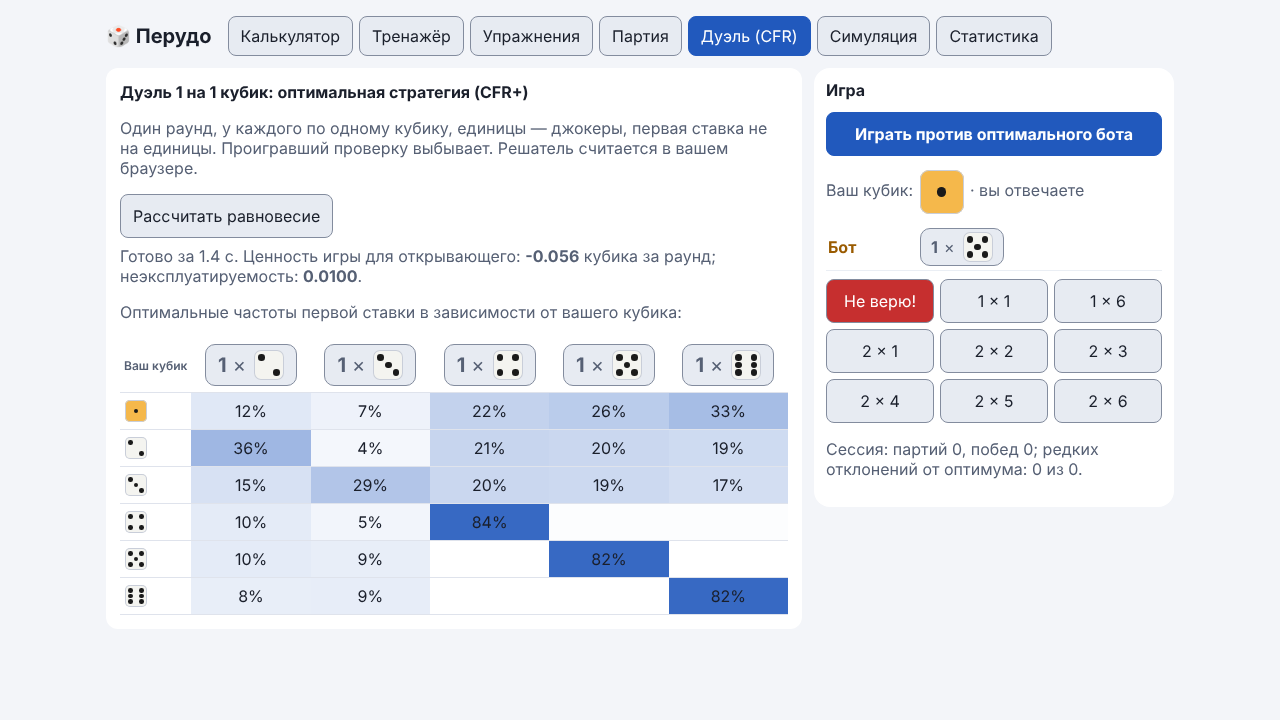
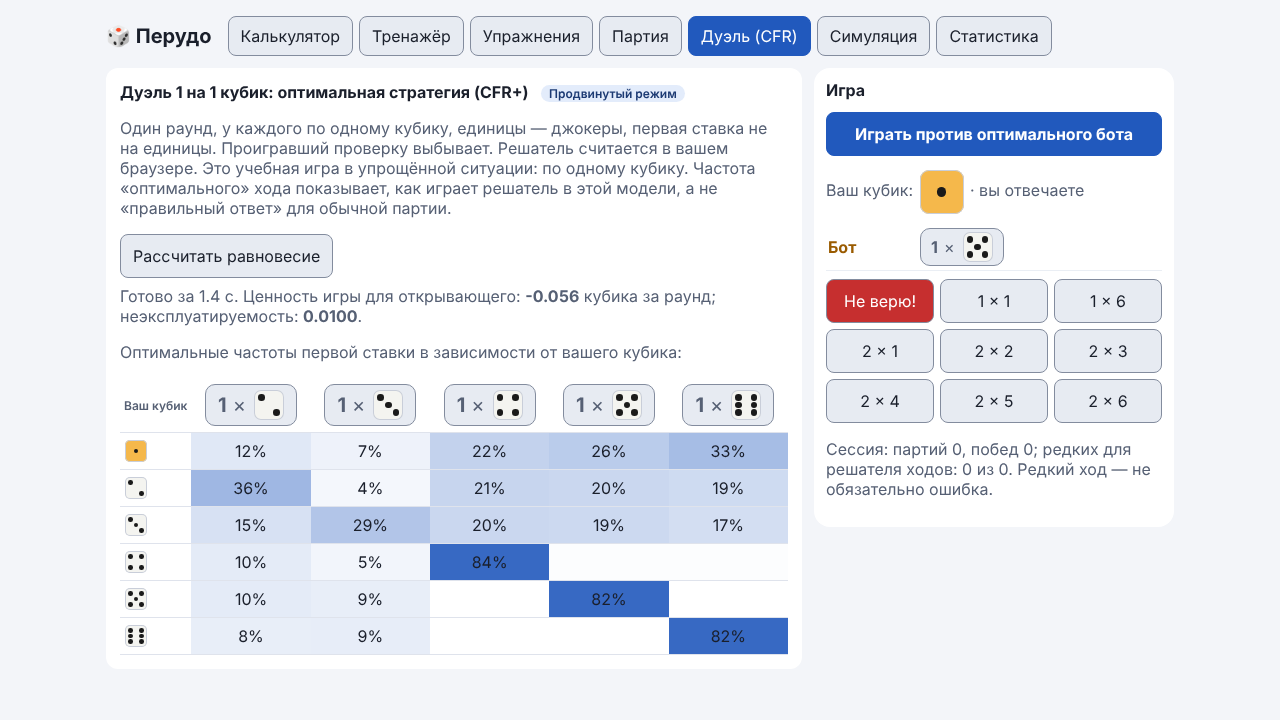
W1-08: тексты Дуэли и Симуляции — метка «Продвинутый режим», условия сравнения с калькулятором, мягче про редкие ходы

diff --git a/docs/guide/duel-sim.html b/docs/guide/duel-sim.html
@@ -23,11 +23,12 @@
     <p class="lead">Два раздела для тех, кому хочется глубже: игра один на один против «почти идеального» бота и проверка формул на практике.</p>
 
     <h2>Дуэль (CFR)</h2>
+    <p><strong>Продвинутый режим.</strong> Это учебная игра в упрощённой ситуации: по одному кубику. Частота «оптимального» хода показывает, как играет решатель в этой модели, а не «правильный ответ» для обычной партии. Новичку лучше начать с <a href="calculator.html">Калькулятора</a> и <a href="drill.html">Разбора</a>.</p>
     <p>Один раунд один на один: у каждого по одному кубику, единицы — джокеры, первая ставка не на единицы, проигравший проверку выбывает. Против вас играет бот, стратегию которого рассчитал алгоритм <strong>CFR+</strong> (минимизация сожаления) прямо в вашем браузере.</p>
     <ul>
       <li><strong>«Рассчитать равновесие»</strong> — посчитать стратегию и посмотреть, с какой частотой бот открывает торги разными ставками при каждом своём кубике.</li>
       <li><strong>«Играть против оптимального бота»</strong> — сыграть раунд: вы выбираете ставку или «Не верю!». Если стратегия ещё не посчитана, расчёт запустится сам.</li>
-      <li>Под полем игры видны счёт «партий / побед» за сессию и число ваших редких отклонений от оптимальной стратегии.</li>
+      <li>Под полем игры видны счёт «партий / побед» за сессию и число ваших ходов, которые решатель выбирает редко. Редкий ход — не обязательно ошибка: решатель просто почти никогда так не играет.</li>
     </ul>
     <figure>
       <img src="../img/duel-desktop.png" alt="Дуэль на компьютере: таблица частот первой ставки и панель игры справа" loading="lazy">
@@ -41,7 +42,7 @@
 
     <h2>Симуляция</h2>
     <p>Проверка формул на практике. Задайте число кубиков (по умолчанию 15), количество бросков (100 000) и джокеры, нажмите <strong>«Запустить Монте-Карло»</strong>. Компьютер бросает кубики много раз и показывает, как часто ставка оказывается верной, когда рук никто не видит.</p>
-    <p>Результат должен совпадать со столбцом «Формула», то есть с цифрами <a href="calculator.html">Калькулятора</a>. Это способ убедиться, что приложению можно доверять.</p>
+    <p>Результат должен совпадать со столбцом «Формула», то есть с цифрами <a href="calculator.html">Калькулятора</a>, но только при тех же условиях: Симуляция бросает все кубики вслепую, без известной вам руки, поэтому с калькулятором она совпадает при том же числе кубиков, тех же джокерах и без учёта вашей руки. Это способ убедиться, что приложению можно доверять.</p>
     <figure>
       <img src="../img/sim-desktop.png" alt="Симуляция на компьютере: результаты бросков рядом со столбцом «Формула»" loading="lazy">
       <figcaption>Кнопка запуска всегда под рукой: на широком экране справа, на телефоне внизу.</figcaption>

diff --git a/tests/mode_notes.test.js b/tests/mode_notes.test.js
@@ -1,0 +1,40 @@
+import { describe, it } from 'node:test';
+import assert from 'node:assert/strict';
+import { readFileSync } from 'node:fs';
+import { DUEL_BADGE, DUEL_NOTE, SIM_NOTE, deviationLabel, duelSessionText } from '../src/mode_notes.js';
+
+const root = new URL('../', import.meta.url);
+const read = (p) => readFileSync(new URL(p, root), 'utf8');
+const text = (html) => html.replace(/<[^>]+>/g, ' ').replace(/\s+/g, ' ');
+const BANNED = /обманщик|врёт|блефует|ошибк[аи] игрока/i;
+
+describe('тексты Дуэли и Симуляции', () => {
+  it('метка «Продвинутый режим» и оговорка есть в index.html', () => {
+    const html = text(read('index.html'));
+    assert.ok(html.includes(DUEL_BADGE));
+    assert.ok(html.includes(DUEL_NOTE));
+    assert.ok(html.includes(SIM_NOTE));
+  });
+  it('SIM_NOTE называет условия сравнения с калькулятором', () => {
+    assert.match(SIM_NOTE, /без известной вам руки/);
+    assert.match(SIM_NOTE, /только при тех же условиях/);
+    assert.match(SIM_NOTE, /джокеры/);
+  });
+  it('редкий ход не называется ошибкой', () => {
+    assert.equal(deviationLabel(0.01), 'редкий для решателя ход');
+    assert.equal(deviationLabel(0.5), 'в рамках');
+    const s = duelSessionText({ games: 2, wins: 1, dev: 3, moves: 7 });
+    assert.match(s, /редких для решателя ходов: 3 из 7/);
+    assert.match(s, /не обязательно ошибка/);
+    assert.doesNotMatch(s, /отклонени/);
+  });
+  it('руководство повторяет оговорки и не использует «отклонения»', () => {
+    const g = text(read('docs/guide/duel-sim.html'));
+    assert.ok(g.includes(DUEL_BADGE));
+    assert.ok(g.includes('без известной вам руки'));
+    assert.doesNotMatch(g, /редких отклонений/);
+  });
+  it('нет запрещённых слов', () => {
+    for (const t of [DUEL_NOTE, SIM_NOTE, DUEL_BADGE]) assert.doesNotMatch(t, BANNED);
+  });
+});

diff --git a/index.html b/index.html
@@ -680,8 +680,9 @@
         <div class="learn-main">
           <div class="card">
             <b>Дуэль 1 на 1 кубик: оптимальная стратегия (CFR+)</b>
+            <span class="badge">Продвинутый режим</span>
             <p class="muted">Один раунд, у каждого по одному кубику, единицы — джокеры, первая ставка не на единицы.
-              Проигравший проверку выбывает. Решатель считается в вашем браузере.</p>
+              Проигравший проверку выбывает. Решатель считается в вашем браузере. Это учебная игра в упрощённой ситуации: по одному кубику. Частота «оптимального» хода показывает, как играет решатель в этой модели, а не «правильный ответ» для обычной партии.</p>
             <div class="row">
               <button id="dSolve">Рассчитать равновесие</button>
             </div>
@@ -715,8 +716,7 @@
                   inputmode="numeric"></label>
               <label class="check"><input id="sW" type="checkbox" checked> джокеры</label>
             </div>
-            <small>Проверка формулы: бросаем все кубики много раз и смотрим, как часто ставка оказывается верной,
-              когда рук никто не видит.</small>
+            <small>Бросаем все кубики вслепую, без известной вам руки, и смотрим, как часто ставка верна. С калькулятором это совпадает только при тех же условиях: то же число кубиков, те же джокеры, рука не учитывается.</small>
           </div>
           <div id="sOut" class="card sim-out"></div>
         </div>

diff --git a/src/mode_notes.js b/src/mode_notes.js
@@ -1,0 +1,17 @@
+// src/mode_notes.js — тексты-оговорки для режимов «Дуэль» и «Симуляция» ← чистая логика (без DOM)
+export const DUEL_BADGE = 'Продвинутый режим';
+export const DUEL_NOTE =
+  'Это учебная игра в упрощённой ситуации: по одному кубику. Частота «оптимального» хода ' +
+  'показывает, как играет решатель в этой модели, а не «правильный ответ» для обычной партии.';
+export const SIM_NOTE =
+  'Бросаем все кубики вслепую, без известной вам руки, и смотрим, как часто ставка верна. ' +
+  'С калькулятором это совпадает только при тех же условиях: то же число кубиков, те же джокеры, рука не учитывается.';
+
+// Редкий ход не равен ошибке: решатель просто почти никогда его не выбирает.
+export function deviationLabel(pr) {
+  return pr < 0.05 ? 'редкий для решателя ход' : 'в рамках';
+}
+export function duelSessionText(stats) {
+  return `Сессия: партий ${stats.games}, побед ${stats.wins}; ` +
+    `редких для решателя ходов: ${stats.dev} из ${stats.moves}. Редкий ход — не обязательно ошибка.`;
+}

diff --git a/src/ui/duel.js b/src/ui/duel.js
@@ -2,6 +2,7 @@
 
 import { getDuelStats, setDuelStats } from '../storage.js';
 import { renderDie, renderBid } from '../table.js';
+import { deviationLabel, duelSessionText } from '../mode_notes.js';
 import { P, $ } from './common.js';
 
 let duelTree = null;
@@ -135,8 +136,7 @@ function renderDuel() {
   }
 
   html += `<div class="muted duel-fb">${D.fb || ''}</div>` +
-    `<p class="muted">Сессия: партий ${duelStats.games}, побед ${duelStats.wins}; ` +
-    `редких отклонений от оптимума: ${duelStats.dev} из ${duelStats.moves}.</p>`;
+    `<p class="muted">${duelSessionText(duelStats)}</p>`;
 
   el.innerHTML = html;
 
@@ -158,7 +158,7 @@ export function moveDuel(i) {
   setDuelStats(duelStats);
 
   D.fb = `Ваш ход ${act === 'D' ? '«Не верю»' : act.q + '×' + act.f}: оптимальная частота ` +
-    `${(pr * 100).toFixed(0)}% ${pr < 0.05 ? '<b class="text-bad">— редкое отклонение</b>' : '<b class="text-ok">— в рамках</b>'}.`;
+    `${(pr * 100).toFixed(0)}% ${pr < 0.05 ? `<b class="text-bad">— ${deviationLabel(pr)}</b>` : `<b class="text-ok">— ${deviationLabel(pr)}</b>`}.`;
 
   if (act === 'D') {
     D.log.push(`<div class="log-row"><span class="player-name c0">Вы</span> <b class="text-bad">не верю!</b></div>`);

diff --git a/src/css/learn.css b/src/css/learn.css
@@ -998,3 +998,14 @@
   overflow-wrap: anywhere;
   user-select: text;
 }
+
+.badge {
+  display: inline-block;
+  margin-left: 8px;
+  padding: 1px 8px;
+  border-radius: 999px;
+  font-size: 12px;
+  font-weight: 600;
+  color: var(--info-fg);
+  background: var(--info-bg);
+}

diff --git a/docs/dev/roadmap.md b/docs/dev/roadmap.md
@@ -4,7 +4,7 @@
 
 **Как вести файл.** Пункт выполнен, когда его патч применён и проверен: в строке меняется `[ ]` на `[x]` и в поле «Патч» ставится номер. Отметку делает тот же патч, который закрывает пункт. Тест `tests/roadmap.test.js` следит, чтобы ID не повторялись, у выполненных был номер патча, а счётчик ниже совпадал со списком.
 
-Выполнено: 8 из 25
+Выполнено: 9 из 25
 
 Формат строки: `- [ ] **ID** · размер (S, M, L) · название (замечания из отчёта) — критерий готовности. Патч: номер или —`.
 
@@ -21,7 +21,7 @@
 - [x] **W1-05** · S · Оговорка модели у «Хорошего решения» в Тренажёре (UX-15) — на экране сказано, что оценка идёт по шансу ставки, а не по выигрышу партии. Патч: 132
 - [x] **W1-06** · S · Вводная «Упражнений» перечисляет все три упражнения (UX-13) — есть ссылка на «Читай вскрытие». Патч: 133
 - [x] **W1-07** · S · Кнопки копии названы через цель (UX-17) — «Скачать резервную копию» и «Восстановить из файла», JSON вторым уровнем. Патч: 134
-- [ ] **W1-08** · S · Тексты Симуляции и Дуэли (UX-10, UX-12) — у Симуляции указаны условия сравнения с калькулятором, у Дуэли пометка «продвинутый режим» и мягкая формулировка про редкие действия. Патч: —
+- [x] **W1-08** · S · Тексты Симуляции и Дуэли (UX-10, UX-12) — у Симуляции указаны условия сравнения с калькулятором, у Дуэли пометка «продвинутый режим» и мягкая формулировка про редкие действия. Патч: 135
 - [ ] **W1-09** · S · Высота верхних вкладок 44 px на планшете (UX-14) — шапка остаётся в одну строку, layout-тесты проходят. Патч: —
 
 ## Волна 2. Онбординг и прогресс

diff --git a/docs/dev/architecture.md b/docs/dev/architecture.md
@@ -52,6 +52,7 @@ src/
 ├── read_drill.js    упражнение «Читай вскрытие»: задание по раунду и проверка ← чистая логика
 ├── game_picture.js  «Картина партии»: кубики по раундам, потери, переломный раунд, лидер ← чистая логика
 ├── backup_labels.js названия кнопок резервной копии в файле (по цели, JSON — вторым уровнем) ← чистая логика
+├── mode_notes.js       оговорки Дуэли и Симуляции: «Продвинутый режим», условия сравнения с калькулятором ← чистая логика
 ├── trainer_text.js  подписи вердикта в Тренажёре: «по шансу» и оговорка модели ← чистая логика
 ├── calc_text.js     пояснение к проценту в калькуляторе: шанс ставки и шанс проверки ← чистая логика
 ├── bot_pace.js      темп ходов ботов: задержка или «Пошагово» (ход по кнопке) ← чистая логика
